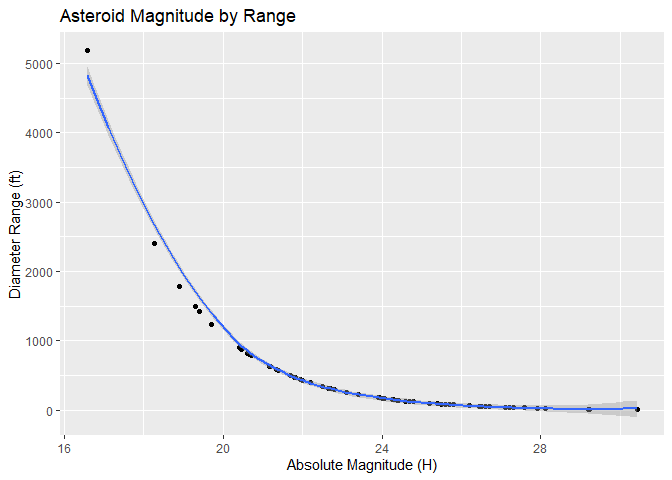
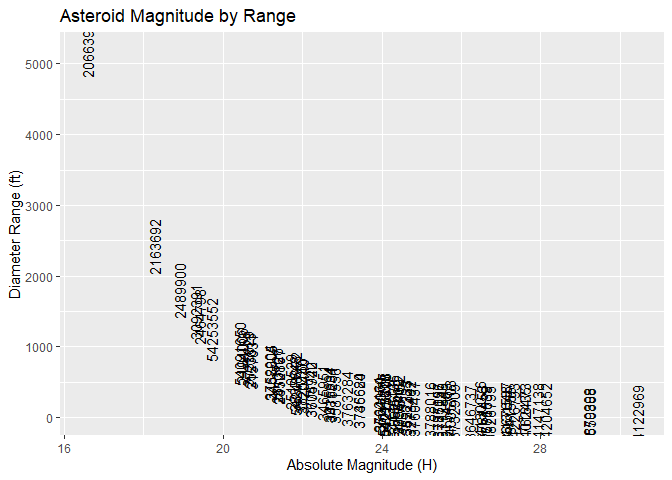
Another small edit and conclustion

diff --git a/README.md b/README.md
@@ -45,9 +45,48 @@ access to some functions.
 ``` r
 library(httr)
 library(dplyr)
+```
+
+    FALSE 
+    FALSE Attaching package: 'dplyr'
+
+    FALSE The following objects are masked from 'package:stats':
+    FALSE 
+    FALSE     filter, lag
+
+    FALSE The following objects are masked from 'package:base':
+    FALSE 
+    FALSE     intersect, setdiff, setequal, union
+
+``` r
 library(jsonlite)
 library(tidyverse)
+```
+
+    FALSE -- Attaching packages ---------------------------------- tidyverse 1.3.1 --
+
+    FALSE v ggplot2 3.3.5     v purrr   0.3.4
+    FALSE v tibble  3.1.6     v stringr 1.4.0
+    FALSE v tidyr   1.2.0     v forcats 0.5.1
+    FALSE v readr   2.1.2
+
+    FALSE -- Conflicts ------------------------------------- tidyverse_conflicts() --
+    FALSE x dplyr::filter()  masks stats::filter()
+    FALSE x purrr::flatten() masks jsonlite::flatten()
+    FALSE x dplyr::lag()     masks stats::lag()
+
+``` r
 library(lubridate)
+```
+
+    FALSE 
+    FALSE Attaching package: 'lubridate'
+
+    FALSE The following objects are masked from 'package:base':
+    FALSE 
+    FALSE     date, intersect, setdiff, union
+
+``` r
 library(knitr)
 ```
 
@@ -368,18 +407,18 @@ june
 ```
 
     ## # A tibble: 68 x 9
-    ##    date       idData  nameData       magData diamMin diamMax hazardData
-    ##    <date>     <chr>   <chr>            <dbl>   <dbl>   <dbl> <lgl>     
-    ##  1 2022-06-01 2163692 163692 (2003 ~    18.3  1943.   4345.  FALSE     
-    ##  2 2022-06-01 2510529 510529 (2012 ~    21.7   399.    891.  TRUE      
-    ##  3 2022-06-01 2523813 523813 (2008 ~    20.6   646.   1446.  TRUE      
-    ##  4 2022-06-01 3092391 (2001 UX4)        19.3  1204.   2692.  FALSE     
-    ##  5 2022-06-01 3370167 (2007 EF)         21.4   458.   1023.  TRUE      
-    ##  6 2022-06-01 3475231 (2009 VP)         22.7   252.    562.  FALSE     
-    ##  7 2022-06-01 3666539 (2014 FS32)       26.6    41.7    93.3 FALSE     
-    ##  8 2022-06-01 3734563 (2015 VP105)      25.6    66.2   148.  FALSE     
-    ##  9 2022-06-01 3735684 (2015 XQ1)        23.4   182.    407.  FALSE     
-    ## 10 2022-06-01 3746620 (2016 ED156)      23.4   182.    407.  FALSE     
+    ##    date       idData  nameData  magData diamMin diamMax hazardData
+    ##    <date>     <chr>   <chr>       <dbl>   <dbl>   <dbl> <lgl>     
+    ##  1 2022-06-01 2163692 163692 (~    18.3  1943.   4345.  FALSE     
+    ##  2 2022-06-01 2510529 510529 (~    21.7   399.    891.  TRUE      
+    ##  3 2022-06-01 2523813 523813 (~    20.6   646.   1446.  TRUE      
+    ##  4 2022-06-01 3092391 (2001 UX~    19.3  1204.   2692.  FALSE     
+    ##  5 2022-06-01 3370167 (2007 EF)    21.4   458.   1023.  TRUE      
+    ##  6 2022-06-01 3475231 (2009 VP)    22.7   252.    562.  FALSE     
+    ##  7 2022-06-01 3666539 (2014 FS~    26.6    41.7    93.3 FALSE     
+    ##  8 2022-06-01 3734563 (2015 VP~    25.6    66.2   148.  FALSE     
+    ##  9 2022-06-01 3735684 (2015 XQ~    23.4   182.    407.  FALSE     
+    ## 10 2022-06-01 3746620 (2016 ED~    23.4   182.    407.  FALSE     
     ## # ... with 58 more rows, and 2 more variables: diamRange <dbl>,
     ## #   diamRangeCategory <ord>
 
@@ -573,7 +612,7 @@ g + geom_bar(aes(fill = hazardData), position = "dodge") +
   scale_fill_discrete(name = "Hazardous", labels = c("No", "Yes"))
 ```
 
-![](README_files/figure-gfm/unnamed-chunk-15-1.png)<!-- -->
+![](README_files/figure-gfm/unnamed-chunk-14-1.png)<!-- -->
 
 Below is a histogram of the frequency of Absolute Aagnitude of the
 asteroids. It appears that this data has a normal distribution, which is
@@ -585,7 +624,7 @@ g2 + geom_histogram(color = "black", fill = "red", size = 1, binwidth = 2) +
   labs(x = "Magnitude (H)", title = "Histogram of Asteroid's Absolute Magnitude")
 ```
 
-![](README_files/figure-gfm/unnamed-chunk-16-1.png)<!-- -->
+![](README_files/figure-gfm/unnamed-chunk-15-1.png)<!-- -->
 
 Below is a histogram with a kernel smoother layered on top. This graph
 is showing the density of Absolute Magnitude categorized by Diameter
@@ -599,7 +638,7 @@ g2 + geom_histogram(aes(y = ..density.., fill = diamRangeCategory), binwidth = 1
   scale_fill_discrete(name = "Diameter Range (ft)", labels = c("High", "Medium", "Low"))
 ```
 
-![](README_files/figure-gfm/unnamed-chunk-17-1.png)<!-- -->
+![](README_files/figure-gfm/unnamed-chunk-16-1.png)<!-- -->
 
 Below is a scatter plot of asteroid Absolute Magnitude by Diameter
 Range. There appears to be a negative exponential trend with very little
@@ -613,7 +652,7 @@ g3 + geom_point() +
   labs(x = "Absolute Magnitude (H)", y = "Diameter Range (ft)", title = "Asteroid Magnitude by Range") 
 ```
 
-![](README_files/figure-gfm/unnamed-chunk-18-1.png)<!-- -->
+![](README_files/figure-gfm/unnamed-chunk-17-1.png)<!-- -->
 
 Here I was having a little fun with the data points in the graph above.
 Each data point is its ID number. It’s not a very appealing graph as
@@ -625,7 +664,7 @@ g3 + geom_text(aes(label = idData, angle = 90)) +
   labs(x = "Absolute Magnitude (H)", y = "Diameter Range (ft)", title = "Asteroid Magnitude by Range") 
 ```
 
-![](README_files/figure-gfm/unnamed-chunk-19-1.png)<!-- -->
+![](README_files/figure-gfm/unnamed-chunk-18-1.png)<!-- -->
 
 Below is a boxplot of Absolute Magnitude of Hazardous and Non-Hazardous
 asteroids. It appears that Absolute Magnitude of asteroids are larger
@@ -638,4 +677,7 @@ g4 + geom_boxplot(fill = "blue", alpha = 0.5) +
   labs(x = "Potentially Hazardous", y = "Absolute Magnitude (H)", title = "Is There a Relationship in Asteroid Magnitude and if it's Potentially Dangerous?")
 ```
 
-![](README_files/figure-gfm/unnamed-chunk-20-1.png)<!-- -->
+![](README_files/figure-gfm/unnamed-chunk-19-1.png)<!-- -->
+Congratulations! You’ve made it to the end of the vignette! I hope you
+enjoyed it and learned a little bit about asteroids. As they say in
+Looney Tunes, “That’s all folks!”
